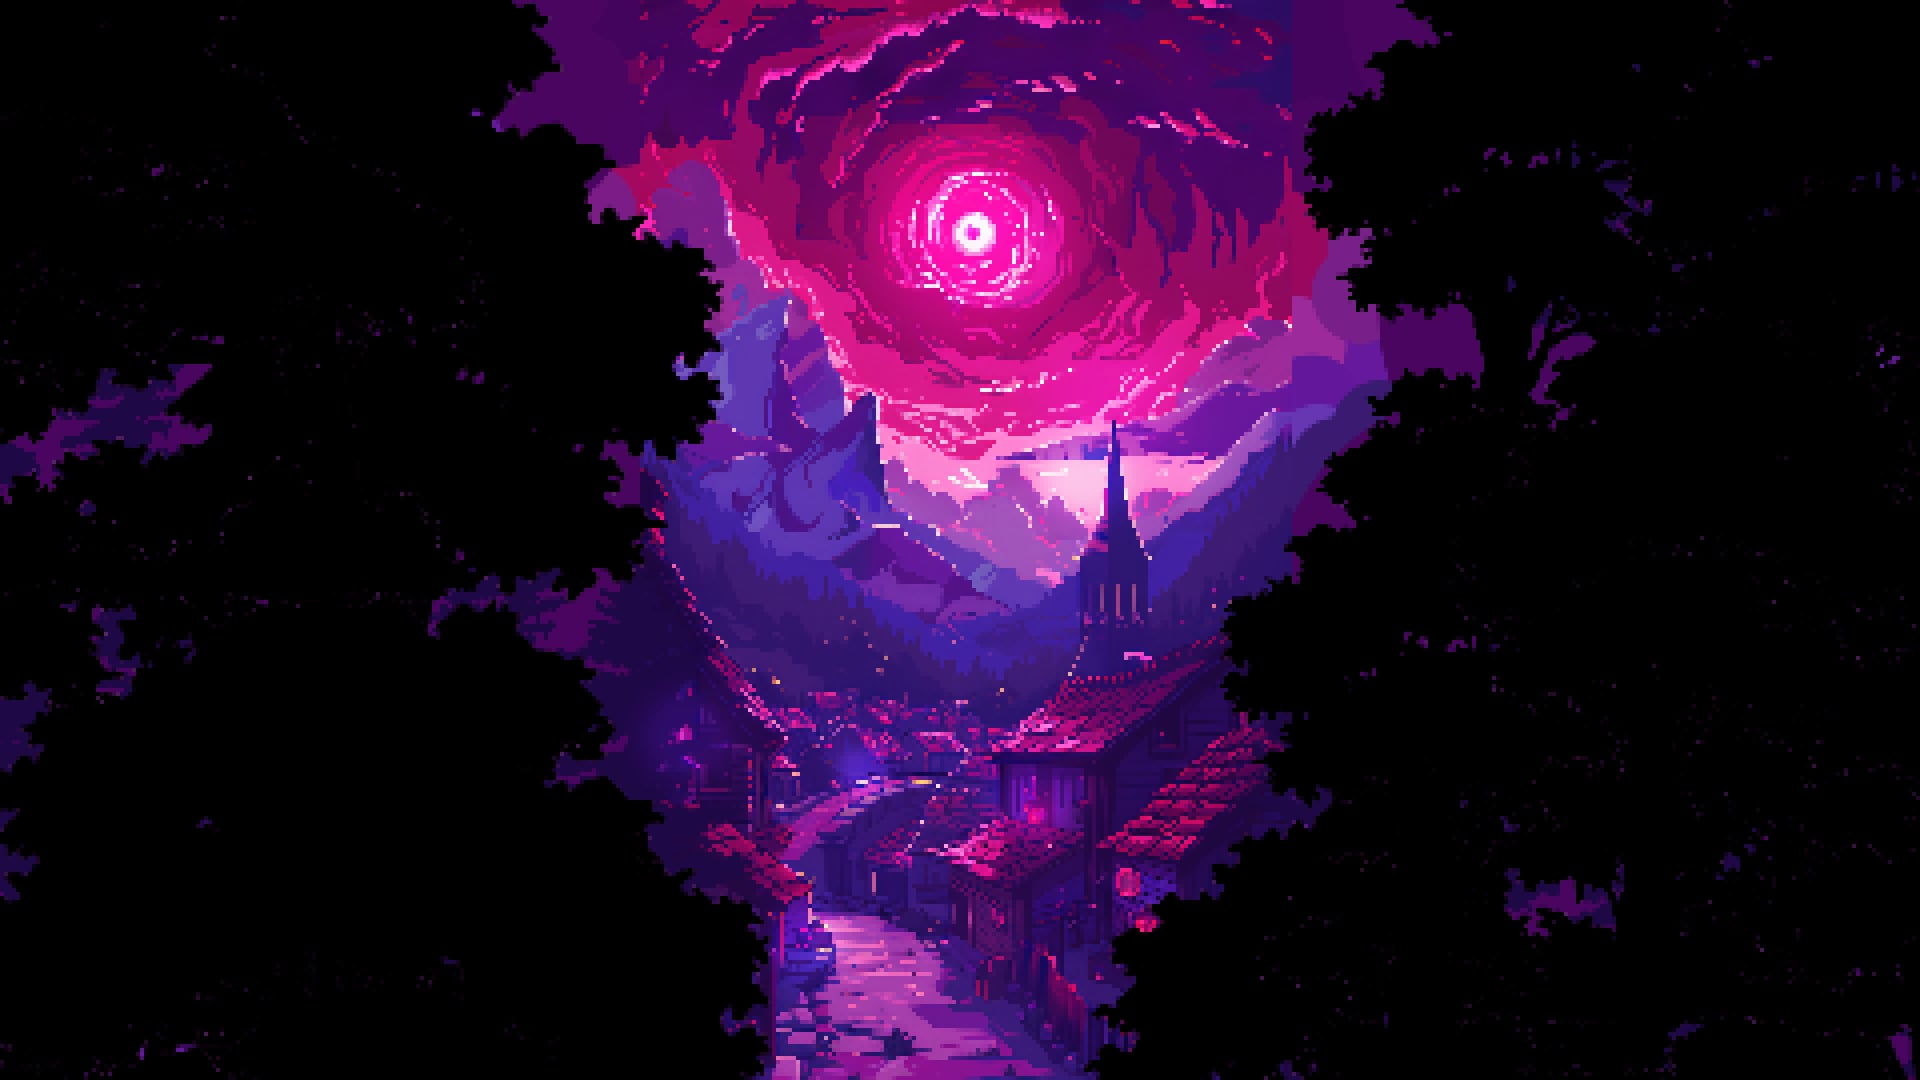
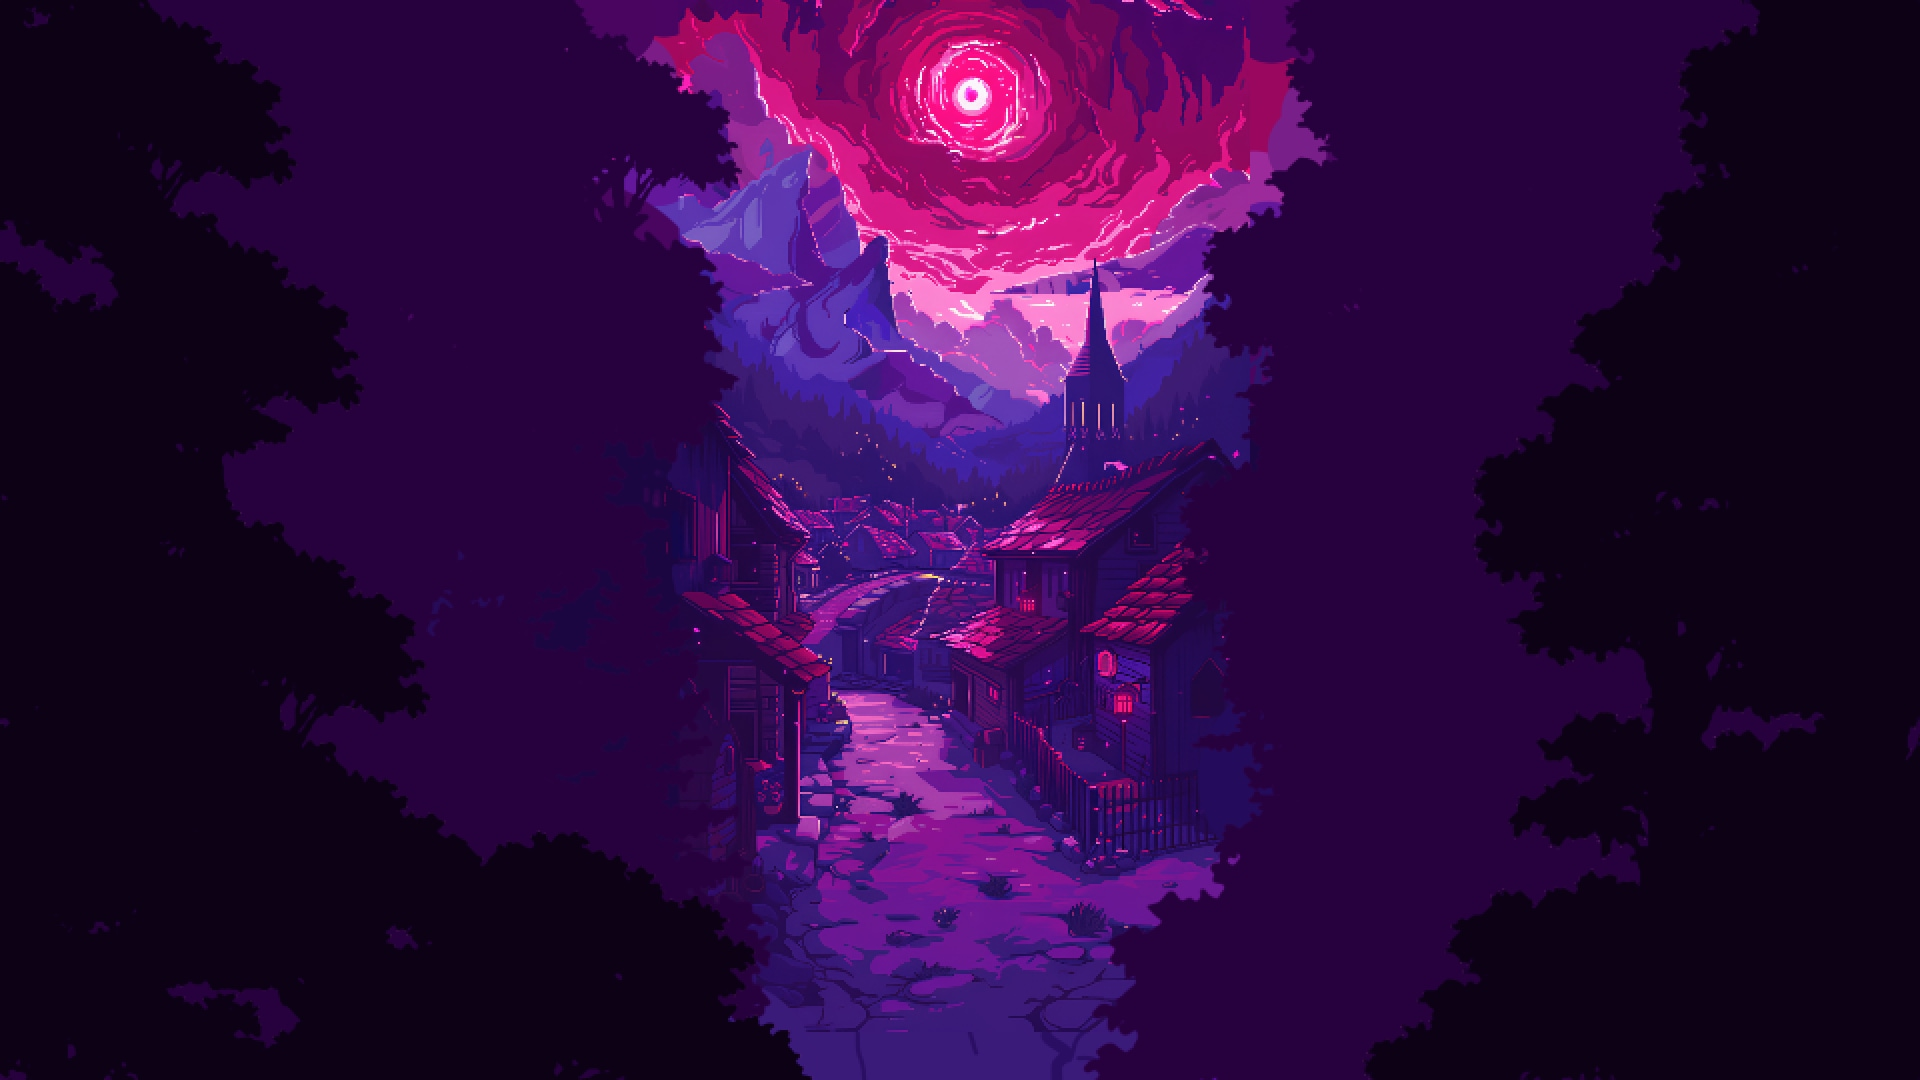
Updates to all inner pages, backgrounds, etc.

diff --git a/src/pages/town-page.vue b/src/pages/town-page.vue
@@ -1,21 +1,23 @@
 <template>
   <PageLayout class="town-bg w-full h-full">
-    <main class="h-full w-full mx-auto max-w-xl flex flex-col justify-end pb-8 gap-2">
-      <router-link to="/dreamforge" class="button rounded-full flex flex-row gap-4 w-full justify-center px-8 py-2 bg-crt-5 border-b-4 border-crt-0">Dreamforge</router-link>
-      <router-link to="/dungeon" class="button rounded-full flex flex-row gap-4 w-full justify-center px-8 py-2 bg-crt-5 border-b-4 border-crt-0">Dungeon</router-link>
-      <router-link to="/profile" class="button rounded-full flex flex-row gap-4 w-full justify-center px-8 py-2 bg-crt-5 border-b-4 border-crt-0">Profile</router-link>
+    <main class="h-full w-full mx-auto flex flex-col justify-end">
+      <div class="town-ui flex flex-row gap-2 mx-auto p-12 justify-center">
+        <router-link to="/character" class="w-1/4 self-center button bg-crt-0 text-center py-4  border-4 border-white">Character</router-link>
+        <router-link to="/dreamforge" class="w-1/4 self-center button bg-crt-0 text-center py-4  border-4 border-white">Dreamforge</router-link>
+        <router-link to="/dungeon" class="w-1/4 self-center button bg-crt-0 text-center py-4  border-4 border-white">Dungeon</router-link>
+        <router-link to="/profile" class="w-1/4 self-center button bg-crt-0 text-center py-4  border-4 border-white">Profile</router-link>
+      </div>
+      
     </main>
   </PageLayout>
 </template>
 
 <script setup>
 import PageLayout from "@/components/page-layout.vue";
-import LogoutButton from "@/components/buttons/logout-button.vue";
 import { useAuth0 } from "@auth0/auth0-vue";
 
 const { user } = useAuth0();
 
-const code = user ? JSON.stringify(user.value, null, 2) : "";
 </script>
 
 <style scoped>
@@ -26,6 +28,13 @@ const code = user ? JSON.stringify(user.value, null, 2) : "";
   background-repeat: no-repeat;
   background-position: top center;
   background-size: cover;
+}
+
+.town-ui {
+  background-image: url("@/assets/images/town_ui.png");
+  background-size: 100%;
+  width: 600px;
+  height: 180px;
 }
 
 .choose {

diff --git a/src/pages/profile-page.vue b/src/pages/profile-page.vue
@@ -1,12 +1,12 @@
 <template>
   <PageLayout class="profile-bg w-full flex flex-col justify-between mb-8">
-    <section class="flex flex-row justify-center mx-auto mt-8 ring-4 ring-crt-5 ring-offset-0 w-44 h-44 rounded-full">
-      <img :src="user.picture" alt="Profile" class="w-44 h-44 rounded-full overflow-hidden border-4 border-crt-F" />
-    </section>
-    <h1 class="mx-auto max-w-xl text-5xl text-center font-bold text-crt-F oswald w-full pb-14 mt-8 profile-name">
-      {{ user.name }}
-    </h1>
     <section class="w-full max-w-xl mx-auto flex flex-col">
+      <section class="flex flex-row justify-center mx-auto mt-8 ring-4 ring-crt-5 ring-offset-0 w-44 h-44 rounded-full">
+        <img :src="user.picture" alt="Profile" class="w-44 h-44 rounded-full overflow-hidden border-4 border-crt-F" />
+      </section>
+      <h1 class="mx-auto max-w-xl text-5xl text-center font-bold text-crt-F oswald w-full pb-14 mt-8 profile-name">
+        {{ user.name }}
+      </h1>
       <div class="w-full">
         <div class="flex flex-row justify-between mt-4">
           <p class="text-base text-crt-F">Email</p>
@@ -43,12 +43,12 @@ const code = user ? JSON.stringify(user.value, null, 2) : "";
 }
 
 .profile-name {
-  text-shadow: 0 4px 0px #51027e, 0 6px 12px rgba(0, 0, 0, .6), 0 38px 22px #540483bd;
+  text-shadow: 0 4px 0px #51027e, 0 6px 12px rgba(0, 0, 0, .6), 0 8px 22px #540483bd;
 }
 
 .profile-bg {
   background-color: #0B0610;
-  background-image: url("@/assets/images/profile-bg-shifted.jpg");
+  background-image: url("@/assets/images/profile-bg.jpg");
   background-repeat: no-repeat;
   background-position: top center;
   background-size: 100%;

diff --git a/src/router/index.js b/src/router/index.js
@@ -6,6 +6,9 @@ import { createRouter, createWebHistory } from "vue-router";
 const NotFoundPage = () => import("@/pages/not-found-page.vue");
 const ProfilePage = () => import("@/pages/profile-page.vue");
 const TownPage = () => import("@/pages/town-page.vue");
+const DreamForgePage = () => import("@/pages/town-page.vue");
+const DungeonPage = () => import("@/pages/town-page.vue");
+const CharacterPage = () => import("@/pages/character-page.vue");
 const PublicPage = () => import("@/pages/public-page.vue");
 const ProtectedPage = () => import("@/pages/protected-page.vue");
 const AdminPage = () => import("@/pages/admin-page.vue");
@@ -26,6 +29,24 @@ const routes = [
     path: "/town",
     name: "town",
     component: TownPage,
+    beforeEnter: authGuard,
+  },
+  {
+    path: "/dreamforge",
+    name: "dreamforge",
+    component: DreamForgePage,
+    beforeEnter: authGuard,
+  },
+  {
+    path: "/dungeon",
+    name: "dungeon",
+    component: DungeonPage,
+    beforeEnter: authGuard,
+  },
+  {
+    path: "/character",
+    name: "character",
+    component: CharacterPage,
     beforeEnter: authGuard,
   },
   {

diff --git a/src/components/navigation/desktop/nav-bar.vue b/src/components/navigation/desktop/nav-bar.vue
@@ -1,13 +1,7 @@
 <template>
-  <nav class="flex flex-col justify-between w-full mx-auto max-w-xl py-4 gap-4">
-      <NavBarBrand class="flex flex-row justify-center w-full" />
-      <section v-if="router.currentRoute.value.name !== 'town'" class="flex flex-row justify-center w-full">
-        <NavBarActions class="flex flex-row justify-center w-full" />
-      </section>
-    <!-- <section class="flex flex-row justify-end gap-8">
-      <NavBarTabs />
-      <NavBarButtons />
-    </section> -->
+  <nav class="flex flex-row py-4 gap-4 justify-between">
+    <NavBarBrand />
+    <BackButton v-if="router.currentRoute.value.name !== 'town'" />
   </nav>
 </template>
 
@@ -15,7 +9,7 @@
 import { ref, watchEffect } from 'vue';
 import { useRouter } from 'vue-router';
 import NavBarBrand from "@/components/navigation/desktop/nav-bar-brand.vue";
-import NavBarActions from "@/components/navigation/desktop/nav-bar-actions.vue";
+import BackButton from "@/components/buttons/back-button.vue";
 const router = useRouter();
 const isTownRoute = ref(false);
 

diff --git a/index.html b/index.html
@@ -8,8 +8,8 @@
     <meta name="theme-color" content="#000000" />
     <meta name="description" content="Deep Dark Dream Dungeon" />
     <link rel="preconnect" href="https://fonts.googleapis.com">
-    <link rel="preconnect" href="https://fonts.gstatic.com" crossorigin>
-    <link href="https://fonts.googleapis.com/css2?family=Poppins:wght@400;800&display=swap" rel="stylesheet">
+<link rel="preconnect" href="https://fonts.gstatic.com" crossorigin>
+<link href="https://fonts.googleapis.com/css2?family=Pixelify+Sans:wght@400..700&family=Poppins:wght@400;800&display=swap" rel="stylesheet">
     <title>Deep Dark Dream Dungeon</title>
   </head>
   <body class="bg-crt-0 h-full w-full">

diff --git a/src/pages/dreamforge-page.vue b/src/pages/dreamforge-page.vue
@@ -1,0 +1,28 @@
+<template>
+  <PageLayout class="dreamforge-bg w-full h-full">
+    dreamforge
+  </PageLayout>
+</template>
+
+<script setup>
+import PageLayout from "@/components/page-layout.vue";
+import { useAuth0 } from "@auth0/auth0-vue";
+
+const { user } = useAuth0();
+</script>
+
+<style scoped>
+
+.town-bg {
+  background-color: #0B0610;
+  background-image: url("@/assets/images/dreamforge-bg.jpg");
+  background-repeat: no-repeat;
+  background-position: top center;
+  background-size: cover;
+}
+
+.forge {
+  text-shadow: 0 4px 0px #51027e, 0 6px 12px rgba(0, 0, 0, .6), 0 38px 22px #540483bd;
+}
+
+</style>

diff --git a/src/pages/dungeon-page.vue b/src/pages/dungeon-page.vue
@@ -1,0 +1,28 @@
+<template>
+  <PageLayout class="dungeon-bg w-full h-full">
+    dungeon
+  </PageLayout>
+</template>
+
+<script setup>
+import PageLayout from "@/components/page-layout.vue";
+import { useAuth0 } from "@auth0/auth0-vue";
+
+const { user } = useAuth0();
+</script>
+
+<style scoped>
+
+.town-bg {
+  background-color: #0B0610;
+  background-image: url("@/assets/images/dungeon-bg.jpg");
+  background-repeat: no-repeat;
+  background-position: top center;
+  background-size: cover;
+}
+
+.forge {
+  text-shadow: 0 4px 0px #51027e, 0 6px 12px rgba(0, 0, 0, .6), 0 38px 22px #540483bd;
+}
+
+</style>

diff --git a/src/components/buttons/back-button.vue b/src/components/buttons/back-button.vue
@@ -1,8 +1,5 @@
 <template>
-  <button class="flex flex-row gap-4 w-full rounded-full justify-center px-8 py-2 bg-crt-5 border-b-4 border-crt-0" @click="goBack">
-    <svg xmlns="http://www.w3.org/2000/svg" fill="none" viewBox="0 0 24 24" stroke-width="1.5" stroke="currentColor" class="w-6 h-6">
-      <path stroke-linecap="round" stroke-linejoin="round" d="M10.5 19.5 3 12m0 0 7.5-7.5M3 12h18" />
-    </svg>
+  <button class="pixelify px-8 py-2 bg-crt-0 border-4 border-white self-center" @click="goBack">
     Back to town
   </button>
 </template>

diff --git a/src/pages/character-page.vue b/src/pages/character-page.vue
@@ -1,0 +1,25 @@
+<template>
+  <PageLayout class="character-bg w-full h-full">
+    character
+  </PageLayout>
+</template>
+
+<script setup>
+import PageLayout from "@/components/page-layout.vue";
+import { useAuth0 } from "@auth0/auth0-vue";
+
+const { user } = useAuth0();
+
+</script>
+
+<style scoped>
+
+.character-bg {
+  background-color: #0B0610;
+  background-image: url("@/assets/images/character-bg.jpg");
+  background-repeat: no-repeat;
+  background-position: top center;
+  background-size: cover;
+}
+
+</style>

diff --git a/src/components/buttons/signup-button.vue b/src/components/buttons/signup-button.vue
@@ -1,5 +1,5 @@
 <template>
-  <button class="px-16 py-4 text-xl bg-crt-5 rounded-full border-b-4 border-crt-0" @click="handleSignUp">Sign Up</button>
+  <button class="px-16 py-4 text-xl bg-crt-5 border-b-4 border-crt-0" @click="handleSignUp">Sign Up</button>
 </template>
 
 <script setup>

diff --git a/src/components/buttons/login-button.vue b/src/components/buttons/login-button.vue
@@ -1,5 +1,5 @@
 <template>
-  <button class="px-16 py-4 text-xl bg-crt-4 rounded-full border-b-4 border-crt-0" @click="handleLogin">Log In</button>
+  <button class="px-16 py-4 text-xl bg-crt-4 border-b-4 border-crt-0" @click="handleLogin">Log In</button>
 </template>
 
 <script setup>

diff --git a/src/assets/css/main.css b/src/assets/css/main.css
@@ -52,5 +52,8 @@ input:-webkit-autofill:active{
 
 button,
 .button {
+  /* background: linear-gradient(180deg, #000000 95%, #C81A59 96%); */
   text-shadow:0 2px 0px rgba(0,0,0,0.6);
+  font-family: "Pixelify Sans", sans-serif;
+  box-shadow: 0 4px 0 #000000, 0 8px 0 #9A14ED;
 }
